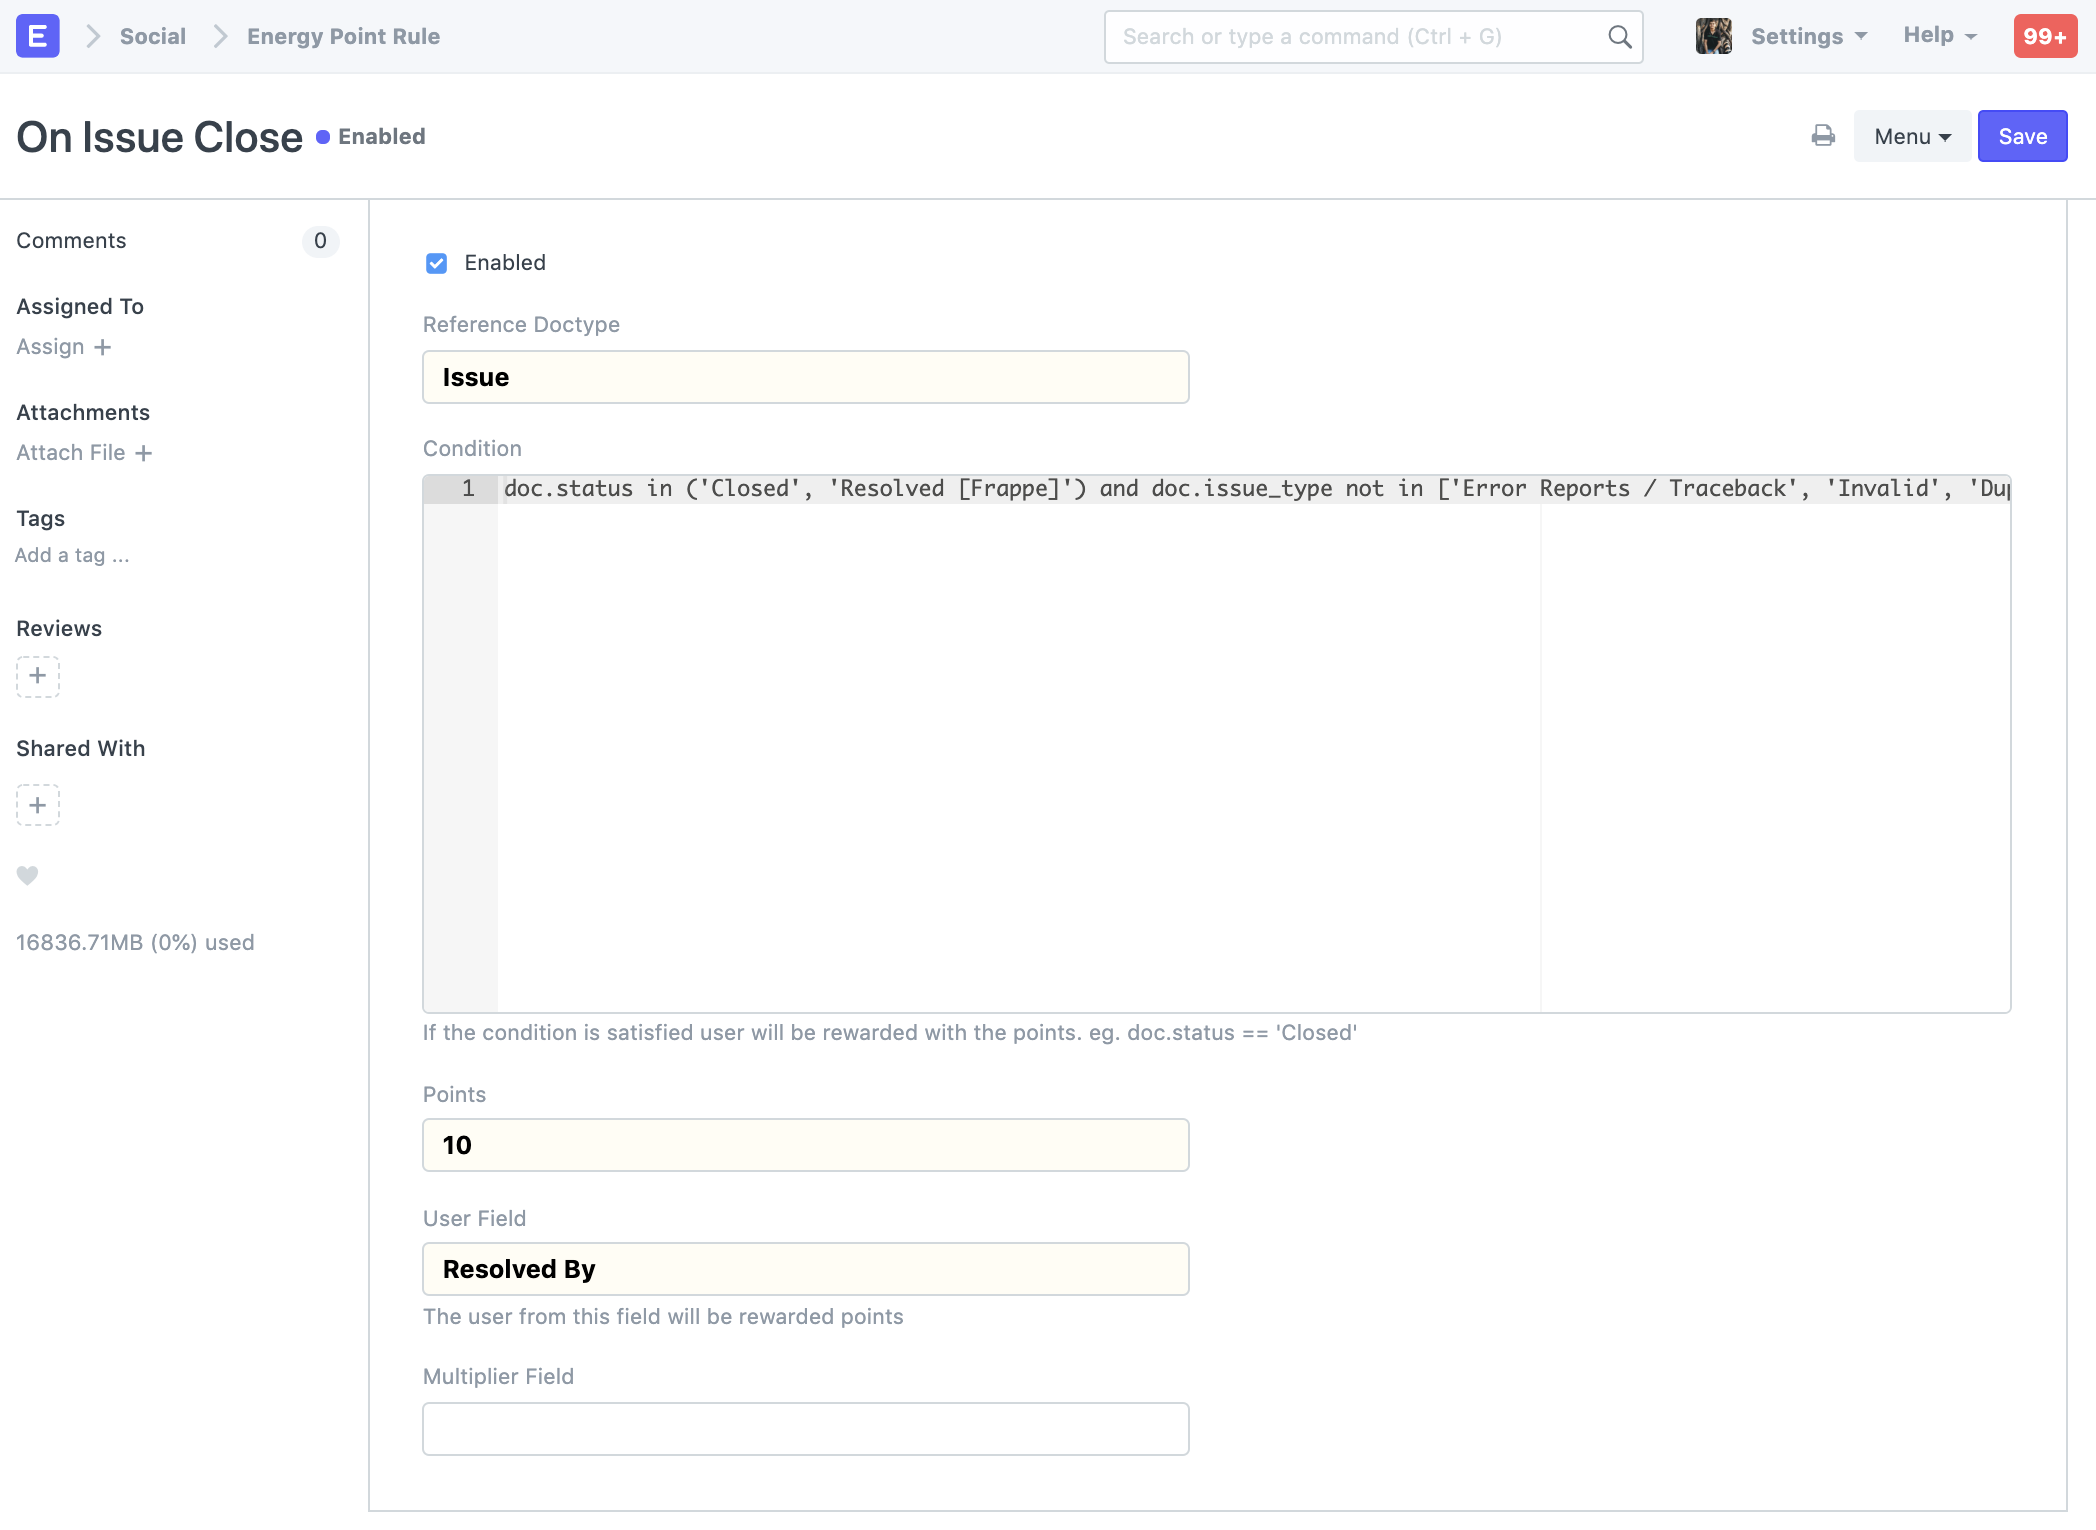
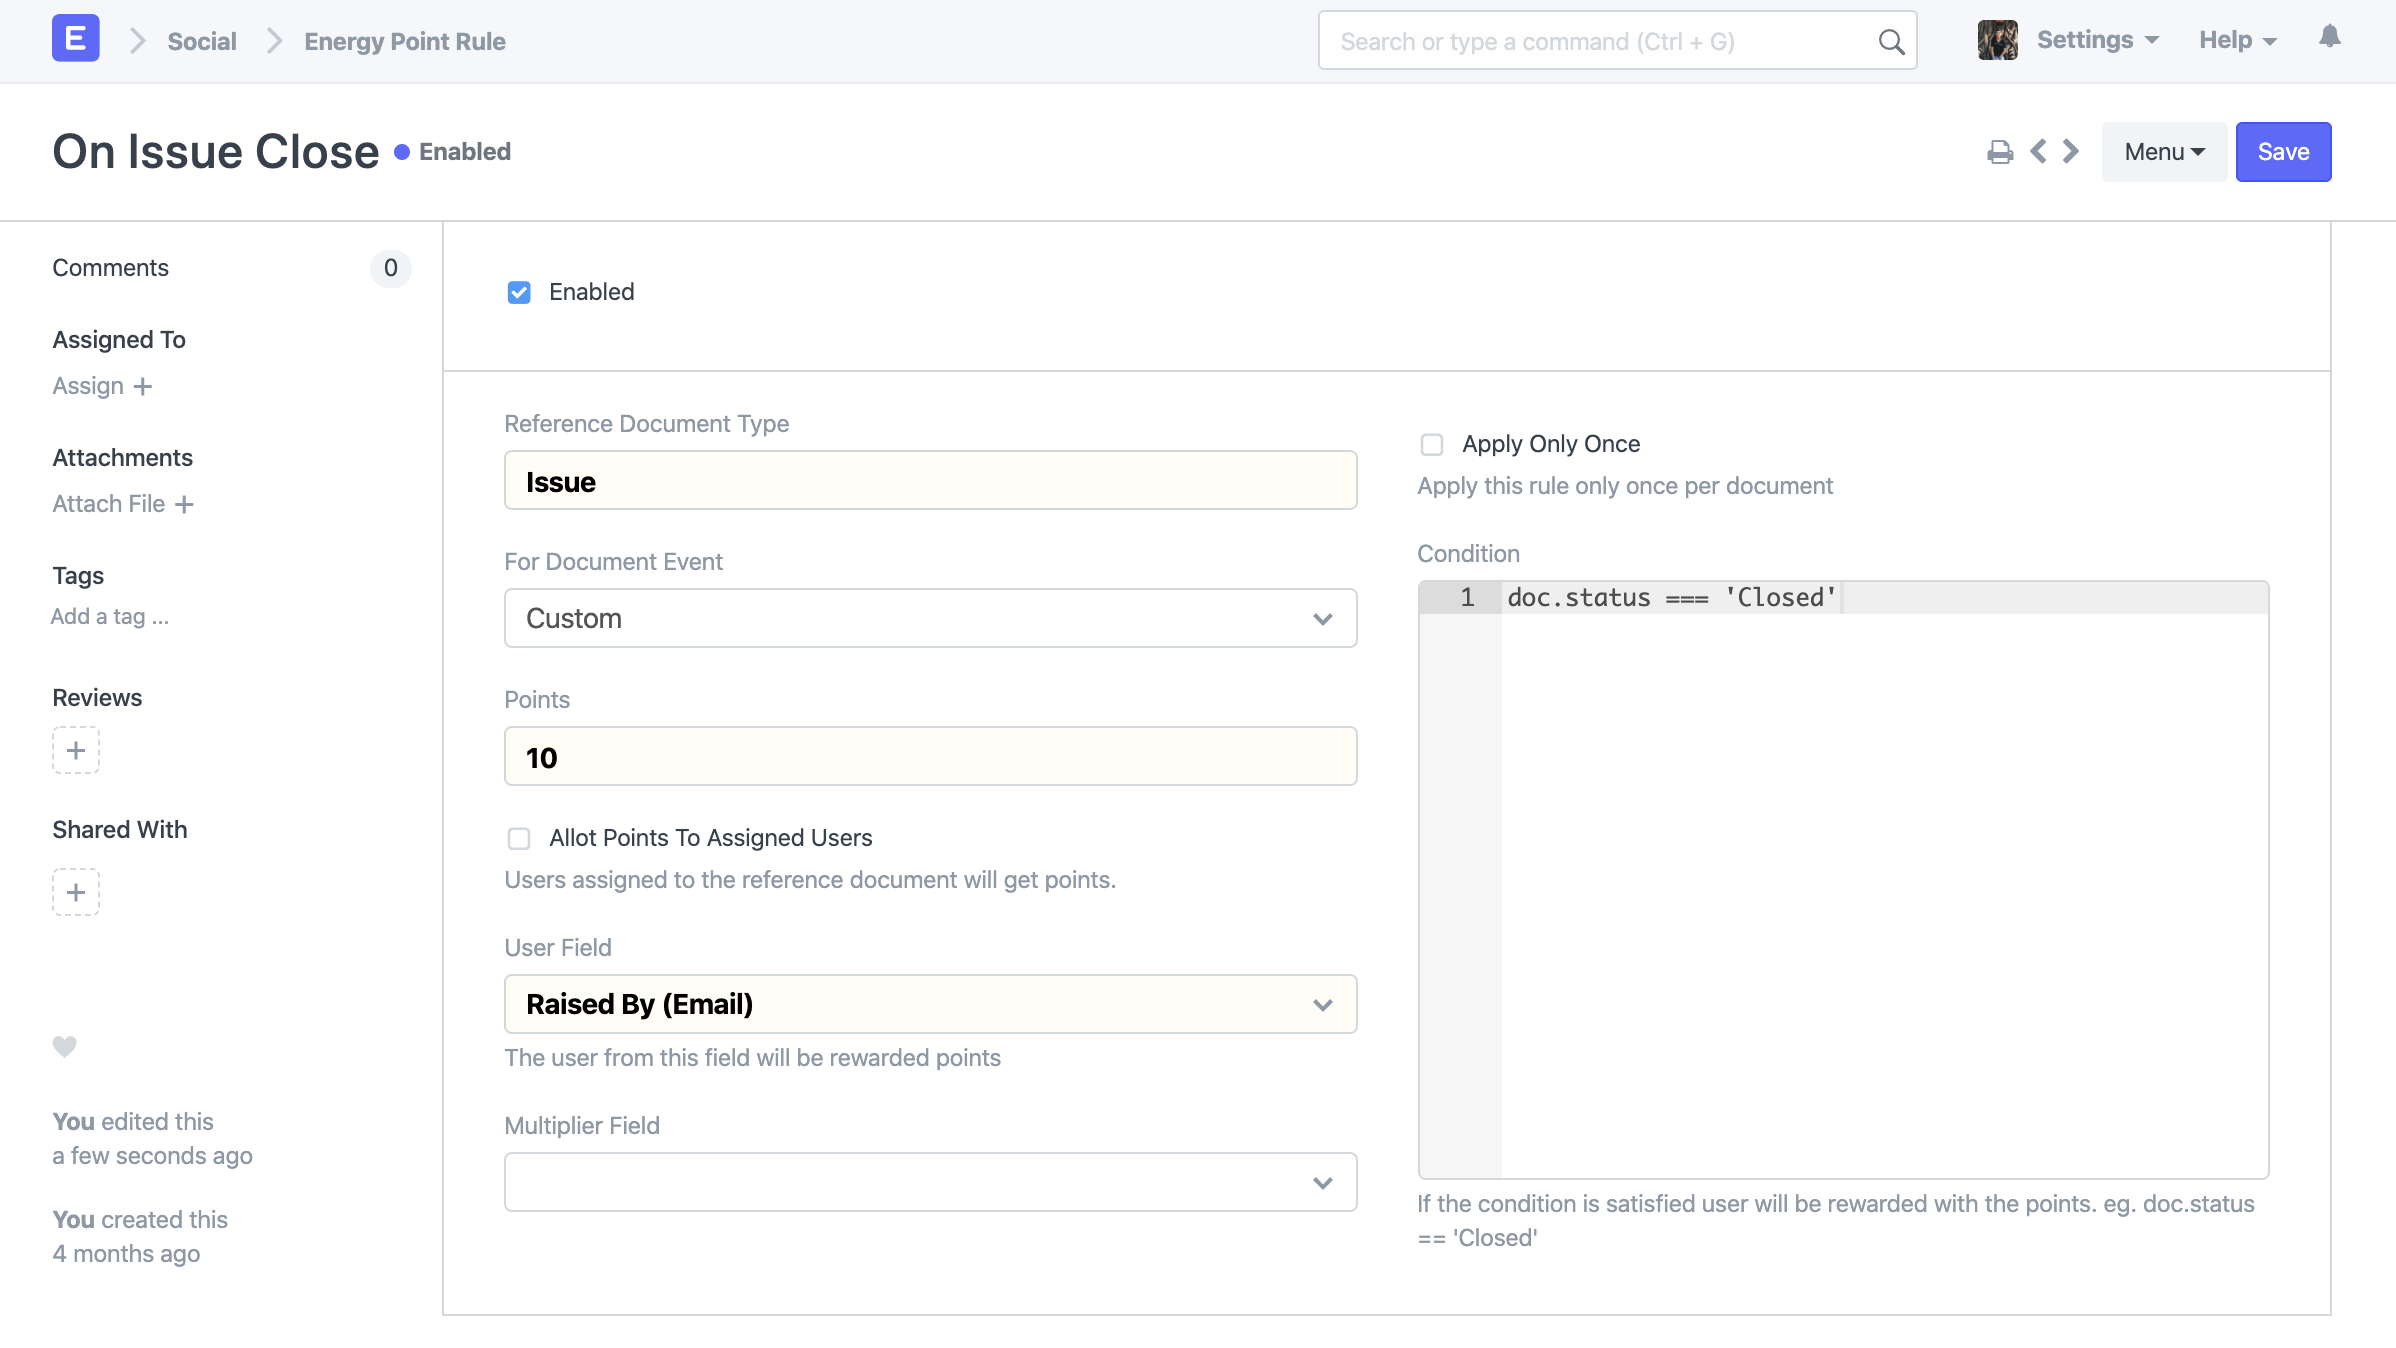
docs: Update EPS docs (#572)
* docs: Add info about new fields

* docs: Update docs images

* chore: Remove unwanted images

* Update energy-point-system.md

diff --git a/user/manual/en/setting-up/energy-point-system.md b/user/manual/en/setting-up/energy-point-system.md
@@ -20,10 +20,13 @@ Energy Point Rule has the following fields:
 | Field        | Description  |
 | ------------- |:-------------|
 | Reference DocType| Document Type you want to apply the rule on eg. Task, ToDo, Issue, etc. |
-| Condition| Condition for the point allocation. <br>eg. `doc.status == 'Closed'`<br>The above condition will check whether the `status` field in the document is 'Closed' and if yes then the points will be allocated to the user.       |
+| For Document Event| Options: Save, Submit, Cancel, and Custom.<br>**Note:** If "Custom" option is selected then the "Conditions" field becomes mandatory|
 | Points | Points to be allocated.|
+| Allot Points To Assigned Users | If checked, users assigned to the reference document will get points. eg. If users Reema and Jai are assigned to a particular task then both of them i.e, Reema and Jai will get points when the document fulfills the condition|
 | User Field | Field from which user will be selected eg. `Resolved By`, `Modified By`, `Owner`, etc. can be used.      |
 | Multiplier Field | Field which stores value for the multiplier. This field can take numeric and decimal values which will be multiplied with points defined in the rule. <br> For example: 2 (multiplier) * 10 (points set in the rule) = 20 points     |
+| Condition | Condition for the point allocation. <br>eg. `doc.status == 'Closed'`<br>The above condition will check whether the `status` field in the document is 'Closed' and if yes then the points will be allocated to the user.       |
+| Apply Only Once | The rule will be applied only once per document.|
 
 > **Note:** User Field and Multiplier Field are fetched from the reference doctype.
 
